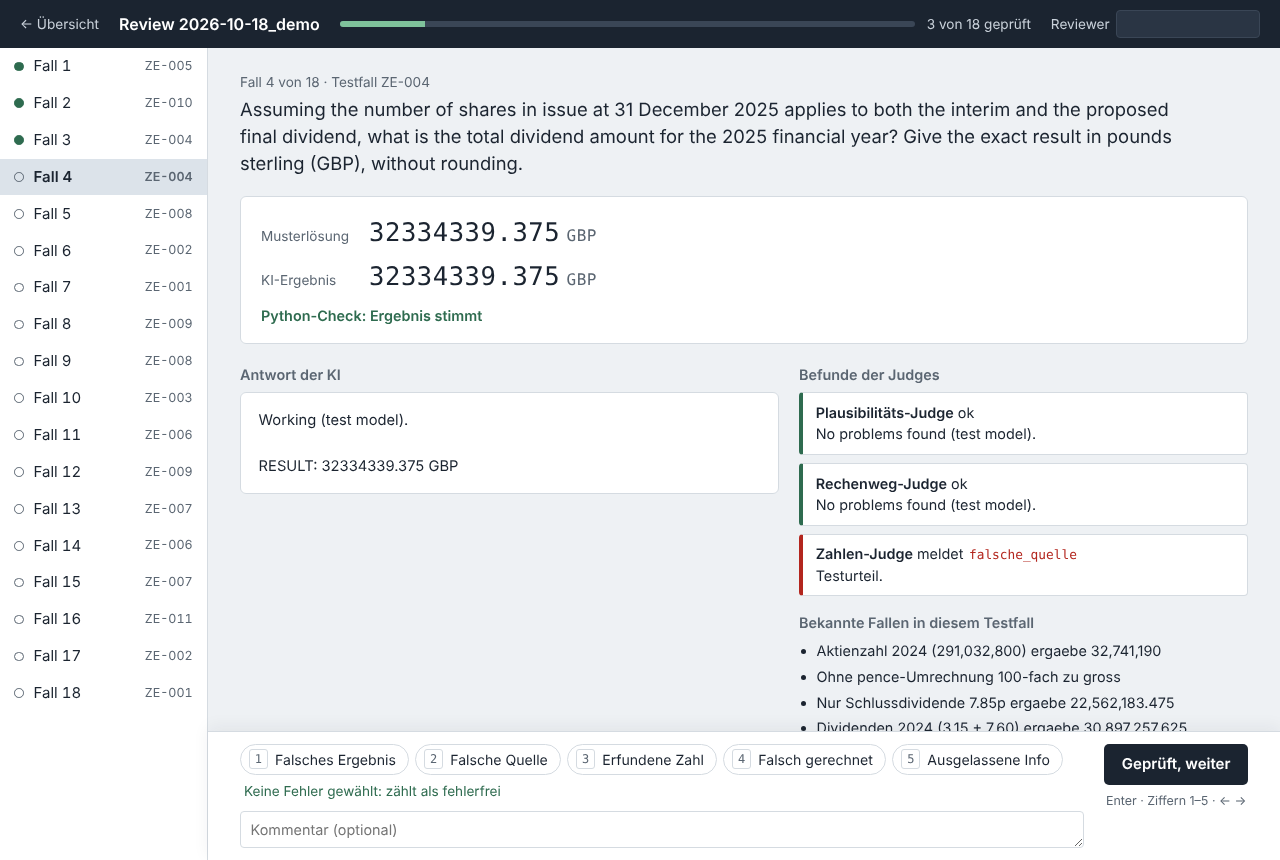
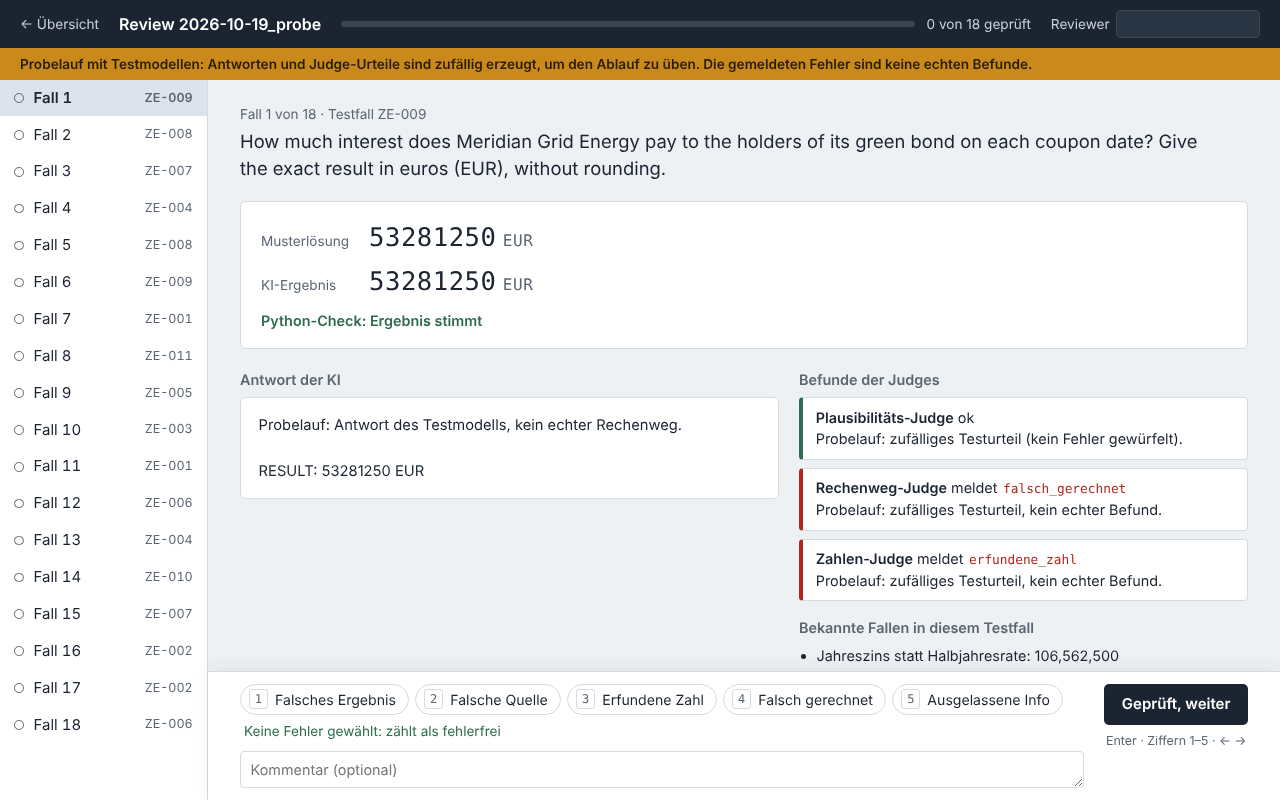
Neuer Stand

diff --git a/figures_in_context/review.html b/figures_in_context/review.html
@@ -78,6 +78,8 @@ summary{cursor:pointer;color:var(--schiefer);font-size:.9rem}
 .status{font-size:.8rem;color:var(--gruen);text-align:center;min-height:1.1em}
 
 .fertig{max-width:36rem;margin:4rem auto;text-align:center}
+body.probe .rahmen{height:calc(100% - 46px - 1.95rem)}
+.probe-band{background:var(--bernstein);color:#2A1D05;font-size:.85rem;font-weight:600;padding:.35rem 1.25rem}
 .fertig a.weiter{display:inline-block;text-decoration:none}
 .zurueck{color:#C9D1DA;text-decoration:none;font-size:.85rem;white-space:nowrap}
 .zurueck:hover{color:#fff}
@@ -88,7 +90,7 @@ summary{cursor:pointer;color:var(--schiefer);font-size:.9rem}
   .fortschritt{order:3;flex-basis:100%}
   .kopf label{margin-left:auto}
   .kopf input{width:7rem}
-  .rahmen{grid-template-columns:1fr;height:auto}
+  .rahmen,body.probe .rahmen{grid-template-columns:1fr;height:auto}
   .liste{display:none}
   .spalten{grid-template-columns:1fr}
   .leiste{left:0;padding:.75rem 1rem;grid-template-columns:1fr}
@@ -106,6 +108,7 @@ summary{cursor:pointer;color:var(--schiefer);font-size:.9rem}
   <div class="fortschritt"><div class="balken"><i id="balken"></i></div><span id="zaehler"></span></div>
   <label>Reviewer <input id="reviewer" autocomplete="name"></label>
 </header>
+<div class="probe-band" id="probe-band" hidden>Probelauf mit Testmodellen: Antworten und Judge-Urteile sind zufällig erzeugt, um den Ablauf zu üben. Die gemeldeten Fehler sind keine echten Befunde.</div>
 <div class="rahmen">
   <nav class="liste" id="liste" aria-label="Fälle"></nav>
   <main id="haupt"></main>
@@ -273,6 +276,7 @@ let LAUF = "<lauf>";
 fetch("api/faelle").then(r => r.json()).then(d => {
   if (!d.faelle) throw new Error(d.fehler);
   LAUF = d.lauf;
+  if (d.test) { $("probe-band").hidden = false; document.body.classList.add("probe"); }
   if (IN_APP) { $("zurueck").hidden = false; $("zurueck").href = "../../#" + encodeURIComponent(LAUF); }
   FAELLE = d.faelle; TYPEN = d.fehlertypen;
   document.title = "Figures in Context Review – " + d.lauf;

diff --git a/figures_in_context/app.html b/figures_in_context/app.html
@@ -289,6 +289,7 @@ function zeigeLauf(name){
   $("seite").innerHTML = `<div class="zwei"><section>
     <div class="titel"><h1>${esc(l.name)}</h1>${l.test ? '<span class="etikett test">Probelauf</span>' : ""}</div>
     <div class="leise">Getestet: ${l.testobjekte.map(esc).join(", ")}</div>
+    ${l.test ? `<div class="hinweis">Probelauf: Testmodelle antworten und urteilen zufällig, damit du den Ablauf ohne Kosten durchspielen kannst. Gemeldete Fehler sind keine echten Befunde.</div>` : ""}
     <div class="kette">
       ${glied("Antworten", antworten, l.antworten_soll)}
       ${glied("Python-Check", gecheckt, l.antworten_soll)}

diff --git a/figures_in_context/modelle.py b/figures_in_context/modelle.py
@@ -172,7 +172,10 @@ def _test(ziel, schema, kontext):
         urteil = {
             "flag": bool(typen),
             "fehlertypen": typen,
-            "befund": "Testurteil." if typen else "No problems found (test model).",
+            # Testmodell würfelt: etwa jede vierte Antwort bekommt einen zufälligen Fehlertyp, damit
+            # Weiterleitung und Review im Probelauf etwas zu tun haben. Kein echter Befund.
+            "befund": "Probelauf: zufälliges Testurteil, kein echter Befund." if typen
+                      else "Probelauf: zufälliges Testurteil (kein Fehler gewürfelt).",
             "belege": [],
             "sicherheit": "mittel",
         }
@@ -188,4 +191,4 @@ def _test(ziel, schema, kontext):
         zeile = f"RESULT: {loesung['wert']} million {loesung['einheit']}"
     else:
         zeile = "The result could not be determined."
-    return {"text": "Working (test model).\n\n" + zeile, "tokens_rein": 0, "tokens_raus": 0, "abbruchgrund": "test", "versuche": 1}
+    return {"text": "Probelauf: Antwort des Testmodells, kein echter Rechenweg.\n\n" + zeile, "tokens_rein": 0, "tokens_raus": 0, "abbruchgrund": "test", "versuche": 1}

diff --git a/figures_in_context/review.py b/figures_in_context/review.py
@@ -68,7 +68,8 @@ class ReviewSitzung:
         self.sperre = threading.Lock()
 
     def daten(self):
-        return {"lauf": self.laufordner.name, "fehlertypen": daten.FEHLERTYPEN, "faelle": self.faelle}
+        test = daten.lade_json(self.laufordner / "lauf.json").get("test", False)
+        return {"lauf": self.laufordner.name, "test": test, "fehlertypen": daten.FEHLERTYPEN, "faelle": self.faelle}
 
     def speichern(self, eingabe):
         fall = self.nach_nr.get(str(eingabe.get("fall_nr")))
